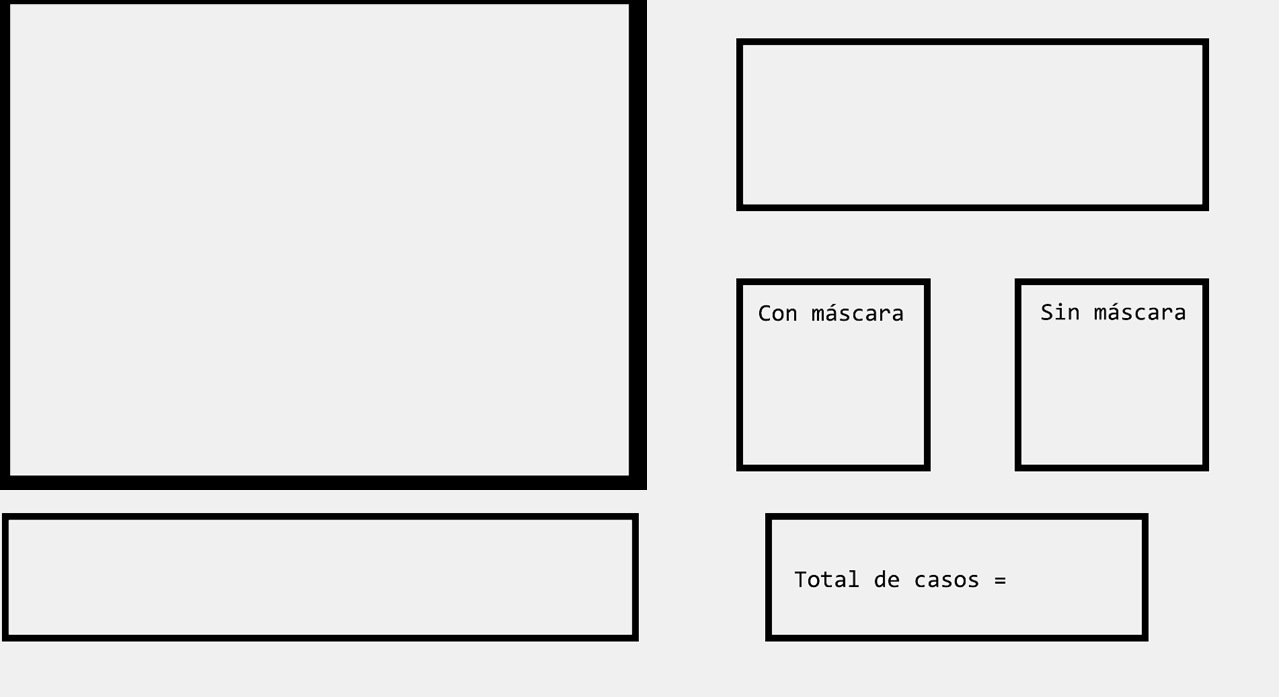
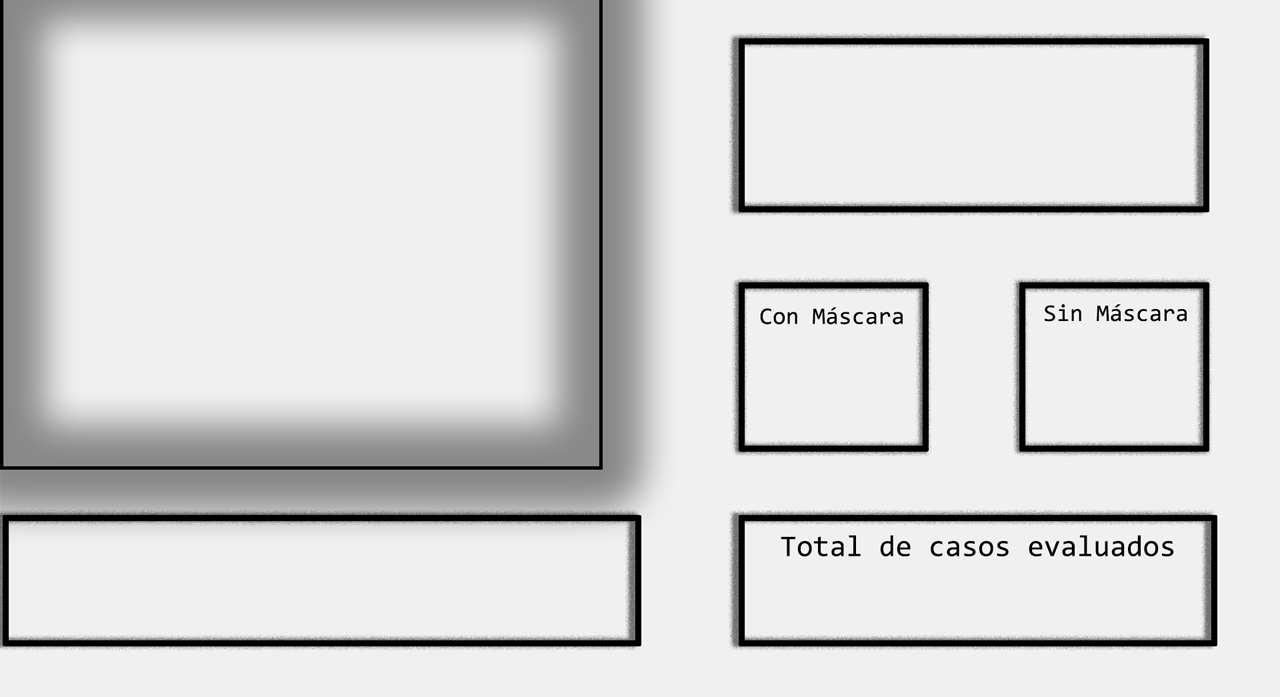
Background presentacion

diff --git a/Code/presentation.py b/Code/presentation.py
@@ -45,6 +45,7 @@ def create_video_window():
     video_window.deiconify()
     root.withdraw()
     video_window.state('zoomed')
+    print(video_window.winfo_geometry())
 
     
 def set_label(color):
@@ -134,7 +135,7 @@ lbl_wom = tk.Label(frame_data_wom, font=("Consolas", 40))
 lbl_wom.pack()
 
 frame_data_total = tk.Frame(video_window, width=10, height=10)
-frame_data_total.place(x=1025, y=555)
+frame_data_total.place(x=975, y=570)
 lbl_total = tk.Label(frame_data_total, font=("Consolas", 30)) 
 lbl_total.pack()
 
